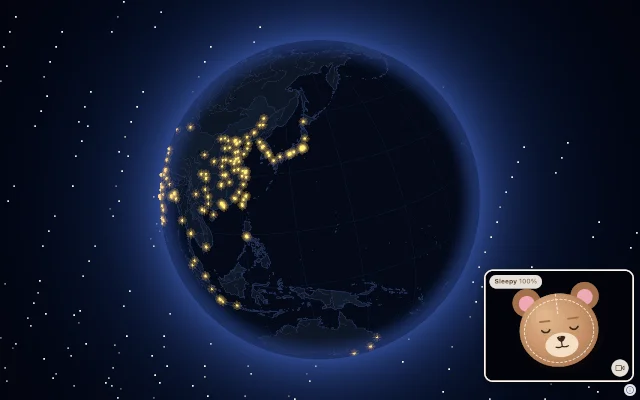
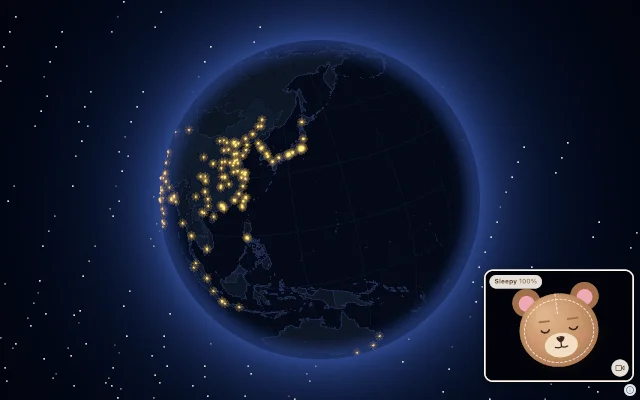
Day 28: cleaner lines on phones, the camera picture in shape; say when a map fails
- The repainted picture is antialiased (SMAA); rivers get their own key
  (lit lines come out dim, and dim blue was ice, painted white); the lines
  stand lower so they don't show past the limb; a city's pixels take the
  land round it (searched further out, land first) so no dark specks.
- Cities are sized on the ground, so the night's lights shrink with the
  globe on small screens.
- The globe is sized by the screen's height alone, as before: big on an
  upright phone, running off the sides.
- The camera picture keeps its shape, filling the panel and cropped (an
  upright phone camera was squashed); the plush follows the same mapping.
- New for every day: a note with a Reload button when a map errors while
  starting, loses its WebGL context, or is still loading after 40 s;
  ?debug lists the console's errors and warnings on the page.

diff --git a/app/maps/day28.vue b/app/maps/day28.vue
@@ -19,8 +19,9 @@ const dataBase = `${baseURL}data/day28`
 
 // The globe, seen whole, turning slowly (°/s) when no one is turning it
 const START = { lng: 138, lat: 22 }
-// How much of the screen's narrower side the globe spans, and the most it ever does (a surprise
-// jumps it closer, joy bounces it: never so far it leaves the screen)
+// How much of the screen's height the globe spans, and the most it ever does (a surprise jumps
+// it closer, joy bounces it). By the height alone: on an upright phone the globe runs off the sides,
+// big, rather than shrinking to fit the width
 const FILL = 0.8
 const FILL_MAX = 0.92
 const EARTH_R = 6_371_000
@@ -99,11 +100,9 @@ onMounted(async () => {
   // The globe as a surface (the ellipsoid), for the countries to drape on and to write depth
   v.addLayer({ type: 'terrain', ellipsoid: {} })
   v.globe.color = key('ocean')
-  // The camera's height above the ground at which the whole globe fits the screen, across and
-  // down (a phone held upright is narrower than it is tall)
+  // The camera's height above the ground at which the globe spans that much of the screen's height
   const fitHeight = (fill = FILL) => {
-    const el = container.value!
-    const tanHalf = Math.tan((v.camera.raw.fov * Math.PI) / 360) * Math.min(1, el.clientWidth / Math.max(1, el.clientHeight))
+    const tanHalf = Math.tan((v.camera.raw.fov * Math.PI) / 360)
     const angle = Math.atan(tanHalf * fill)
     return EARTH_R / Math.sin(angle) - EARTH_R
   }
@@ -123,10 +122,10 @@ onMounted(async () => {
   // rivers, then coasts and borders on top
   const lines = v.addSource({ type: 'geojson', url: `${dataBase}/lines.geojson` })
   const LINES: Record<string, { color: Color; width: number; height: number }> = {
-    grid: { color: key('grid'), width: 0.8, height: 1_000 },
-    river: { color: key('water'), width: 1, height: 2_000 },
-    border: { color: key('border'), width: 0.9, height: 3_000 },
-    coast: { color: key('border'), width: 1.3, height: 3_000 },
+    grid: { color: key('grid'), width: 0.8, height: 150 },
+    river: { color: key('river'), width: 1, height: 300 },
+    border: { color: key('border'), width: 0.9, height: 450 },
+    coast: { color: key('border'), width: 1.3, height: 450 },
   }
   for (const [kind, style] of Object.entries(LINES)) {
     const layer = v.addLayer({
@@ -141,16 +140,17 @@ onMounted(async () => {
     })
   }
 
-  // The biggest cities, by size: shown only at night, as lights (see MoodRecolorEffectDesc)
+  // The biggest cities, by size: shown only at night, as lights (see MoodRecolorEffectDesc). Sized
+  // on the ground, so they shrink with the globe on a small screen
   const cities = v.addSource({ type: 'geojson', url: `${dataBase}/cities.geojson` })
   const cityColor = key('city')
   const cityLayer = v.addLayer({
     type: 'vector',
     source: cities,
-    point: { color: cityColor, size: 4, sizeInMeters: false, clampToGround: false, height: 8_000, offsetDepth: false, declutter: false },
+    point: { color: cityColor, size: 60_000, sizeInMeters: true, clampToGround: false, height: 8_000, offsetDepth: false, declutter: false },
   })
   cityLayer.on('featureUpdated', ({ evaluator }) => {
-    evaluator.evaluate(({ properties }) => ({ color: cityColor, size: 2.5 + Math.sqrt(Number(properties?.['pop'] ?? 0) / 1e6) * 1.6 }), {
+    evaluator.evaluate(({ properties }) => ({ color: cityColor, size: 35_000 + Math.sqrt(Number(properties?.['pop'] ?? 0) / 1e6) * 22_000 }), {
       filters: ['pop'],
     })
   })
@@ -167,6 +167,8 @@ onMounted(async () => {
   v.registerEffect('moodRecolor', MoodRecolorEffectDesc)
   const recolorConfig: MoodRecolorConfig = { moodRecolor: {} }
   const recolor = v.addEffect<MoodRecolorEffectDesc>(recolorConfig).ref
+  // Antialiasing on the repainted picture (the keys can't be smoothed: a blend is no key)
+  v.addEffect({ smaa: {} })
   // (three's colours, for the effect's uniforms: Navara's Color is another class)
   const pal = Object.fromEntries(ROLES.map((k) => [k, new ThreeColor()])) as Record<Role, ThreeColor>
   const paint = (w: Weights) => {
@@ -216,14 +218,23 @@ onMounted(async () => {
     if (face?.ready) {
       // The camera's picture, mirrored; blurred whole whenever no face is found in it, so a face
       // the landmarker misses is never shown bare
+      // Its own shape kept, filling the panel and cropped (a phone's front camera is upright, a
+      // webcam often 16:9); the crop is centred, so mirroring it keeps it where it is
+      const vw = face.video.videoWidth || W
+      const vh = face.video.videoHeight || H
+      const fit = Math.max(W / vw, H / vh)
+      const dw = vw * fit
+      const dh = vh * fit
+      const ox = (W - dw) / 2
+      const oy = (H - dh) / 2
       pctx.save()
       pctx.filter = seen ? 'none' : 'blur(14px)'
       pctx.translate(W, 0)
       pctx.scale(-1, 1)
-      pctx.drawImage(face.video, 0, 0, W, H)
+      pctx.drawImage(face.video, ox, oy, dw, dh)
       pctx.restore()
       if (seen) {
-        const m = (p: [number, number]): [number, number] => [(1 - p[0]) * W, p[1] * H]
+        const m = (p: [number, number]): [number, number] => [ox + (1 - p[0]) * dw, oy + p[1] * dh]
         const top = m(seen.top)
         const chin = m(seen.chin)
         const a = m(seen.right)

diff --git a/app/plugins/trouble.client.ts b/app/plugins/trouble.client.ts
@@ -1,0 +1,110 @@
+// When a map fails to come up, say so on the page instead of leaving it on "Loading…": an error
+// thrown while a map starts (Vue's error hook), an unhandled error or rejection, or the WebGL
+// context lost (phones drop it when memory runs short), or a page still on "Loading…" after 40 s,
+// shows a note at the foot of the page with what happened and a button to reload. With ?debug in the URL, the console's errors and warnings
+// are listed there too, so a phone can show what went wrong.
+
+type Entry = { kind: string; text: string }
+
+export default defineNuxtPlugin((nuxtApp) => {
+  const debug = new URLSearchParams(location.search).has('debug')
+  const entries: Entry[] = []
+  let box: HTMLDivElement | undefined
+  let list: HTMLOListElement | undefined
+  let shown = false
+
+  const ensure = () => {
+    if (box) return
+    box = document.createElement('div')
+    box.setAttribute('role', 'alert')
+    box.style.cssText = [
+      'position:fixed',
+      'left:8px',
+      'right:8px',
+      'bottom:8px',
+      'z-index:1000',
+      'max-height:45vh',
+      'overflow:auto',
+      'padding:10px 12px',
+      'font:12px/1.45 ui-monospace,Menlo,monospace',
+      'color:#fff',
+      'background:rgba(20,10,10,0.92)',
+      'border:1px solid #c55',
+      'border-radius:10px',
+      'display:none',
+    ].join(';')
+    const head = document.createElement('div')
+    head.style.cssText = 'display:flex;gap:8px;align-items:center;margin-bottom:6px;font-weight:700'
+    head.textContent = 'The map ran into trouble.'
+    const reload = document.createElement('button')
+    reload.textContent = 'Reload'
+    reload.style.cssText = 'margin-left:auto;padding:4px 10px;border:0;border-radius:6px;background:#fff;color:#222;font-weight:700'
+    reload.onclick = () => location.reload()
+    const close = document.createElement('button')
+    close.textContent = '×'
+    close.setAttribute('aria-label', 'Close')
+    close.style.cssText = 'padding:2px 8px;border:0;border-radius:6px;background:transparent;color:#fff;font-size:16px'
+    close.onclick = () => {
+      box!.style.display = 'none'
+      shown = false
+    }
+    head.append(reload, close)
+    list = document.createElement('ol')
+    list.style.cssText = 'margin:0;padding-left:18px;word-break:break-word'
+    box.append(head, list)
+    document.body.appendChild(box)
+  }
+
+  const add = (kind: string, text: string, show: boolean) => {
+    const e = { kind, text: text.slice(0, 400) }
+    if (entries.some((x) => x.kind === e.kind && x.text === e.text)) return
+    entries.push(e)
+    if (!show && !debug) return
+    ensure()
+    const li = document.createElement('li')
+    li.textContent = `[${e.kind}] ${e.text}`
+    list!.appendChild(li)
+    if (show || debug) {
+      box!.style.display = 'block'
+      shown = true
+    }
+  }
+  const describe = (x: unknown) => (x instanceof Error ? `${x.name}: ${x.message}` : String(x))
+
+  // Errors thrown while a map's component starts (its async onMounted): Vue reports them here
+  nuxtApp.hook('vue:error', (err) => add('error', describe(err), true))
+  window.addEventListener('error', (e) => add('error', describe(e.error ?? e.message), true))
+  window.addEventListener('unhandledrejection', (e) => add('rejection', describe(e.reason), true))
+  // A canvas losing its WebGL context (events don't bubble: listen in the capture phase)
+  document.addEventListener('webglcontextlost', () => add('webgl', 'The WebGL context was lost (often: the device ran short of memory).', true), true)
+
+  if (debug) {
+    for (const level of ['error', 'warn'] as const) {
+      const orig = console[level].bind(console)
+      console[level] = (...args: unknown[]) => {
+        orig(...args)
+        add(level, args.map(describe).join(' '), false)
+      }
+    }
+    add('info', `${navigator.userAgent} · dpr ${devicePixelRatio} · ${innerWidth}×${innerHeight} · cores ${navigator.hardwareConcurrency ?? '?'}`, false)
+  }
+
+  // Still loading long after the page came up: something hung without a word
+  let watch = 0
+  nuxtApp.hook('page:finish', () => {
+    clearTimeout(watch)
+    const path = location.pathname
+    watch = window.setTimeout(() => {
+      if (location.pathname === path && document.querySelector('.loading')) add('timeout', `Still loading after 40 s (${path}).`, true)
+    }, 40_000)
+  })
+
+  // A new page starts with a clean slate (unless debugging, which keeps the whole trail)
+  nuxtApp.hook('page:start', () => {
+    if (debug || !box || !shown) return
+    box.style.display = 'none'
+    shown = false
+    list!.replaceChildren()
+    entries.length = 0
+  })
+})

diff --git a/app/maps/lib/MoodRecolorEffectDesc.ts b/app/maps/lib/MoodRecolorEffectDesc.ts
@@ -30,9 +30,12 @@ export const KEYS = {
   landD: '#00ffff',
   ice: '#000080',
   water: '#0000ff',
+  // Lines come out at about half strength (they are lit), so a river can't be blue (dim blue is
+  // ice): it is cyan, dim, apart from the full cyan of the fourth land shade
+  river: '#00ffff',
   border: '#ff00ff',
   city: '#800000',
-} as const satisfies Partial<Record<Role, string>>
+} as const satisfies Partial<Record<Role | 'river', string>>
 
 const uniform = (r: Role) => `u_${r}`
 
@@ -71,7 +74,7 @@ const fragmentShader = /* glsl */ `
     // A city only where the key is clean (dim, pure red): where two parts' colours blend at an
     // edge, a red and something darker can come out dim red too
     bool city = dim && hi > 0.12 && hi < 0.35 && sat > 0.9 && abs(h - (h > 3.0 ? 6.0 : 0.0)) < 0.25;
-    return k == 0 ? (city ? 9 : 2) : k == 1 ? 3 : k == 2 ? 4 : k == 3 ? 5 : k == 4 ? (dim ? 6 : 7) : 8;
+    return k == 0 ? (city ? 9 : 2) : k == 1 ? 3 : k == 2 ? 4 : k == 3 ? (dim ? 7 : 5) : k == 4 ? (dim ? 6 : 7) : 8;
   }
 
   vec3 paint(int p) {
@@ -103,9 +106,19 @@ const fragmentShader = /* glsl */ `
     vec2 px = 1.0 / resolution;
     if (p == 9) {
       // A city: lit, or (when the cities are out) the ground round it, read a few pixels off
-      int under = part(texture2D(inputBuffer, uv + vec2(7.0, 0.0) * px).rgb);
-      if (under == 9) under = part(texture2D(inputBuffer, uv - vec2(7.0, 0.0) * px).rgb);
-      if (under == 9) under = 0;
+      // (cities crowd together, and stand on the coast: look round, further out, for land first —
+      // a city is on land — and take the sea only if no land shows)
+      int under = 9;
+      int sea = 9;
+      for (int j = 1; j <= 5 && under == 9; j++) {
+        for (int i = 0; i < 8 && under == 9; i++) {
+          float a = float(i) * 0.785398 + float(j) * 0.4;
+          int p2 = part(texture2D(inputBuffer, uv + vec2(cos(a), sin(a)) * float(j) * 5.0 * px).rgb);
+          if (p2 >= 2 && p2 <= 6) under = p2;
+          else if (p2 == 0 || p2 == 7) sea = p2;
+        }
+      }
+      if (under == 9) under = sea == 9 ? 2 : sea;
       col = mix(paint(under), u_city * 1.4, uCities);
     } else {
       col = paint(p);
